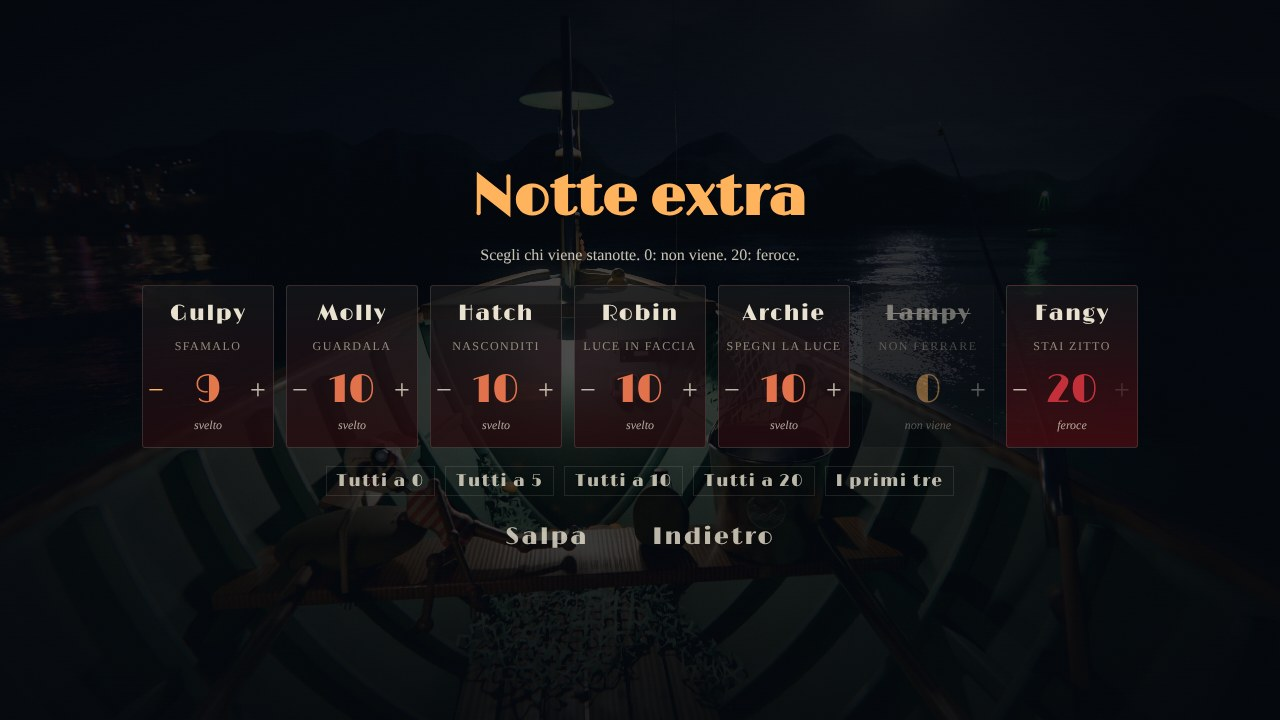
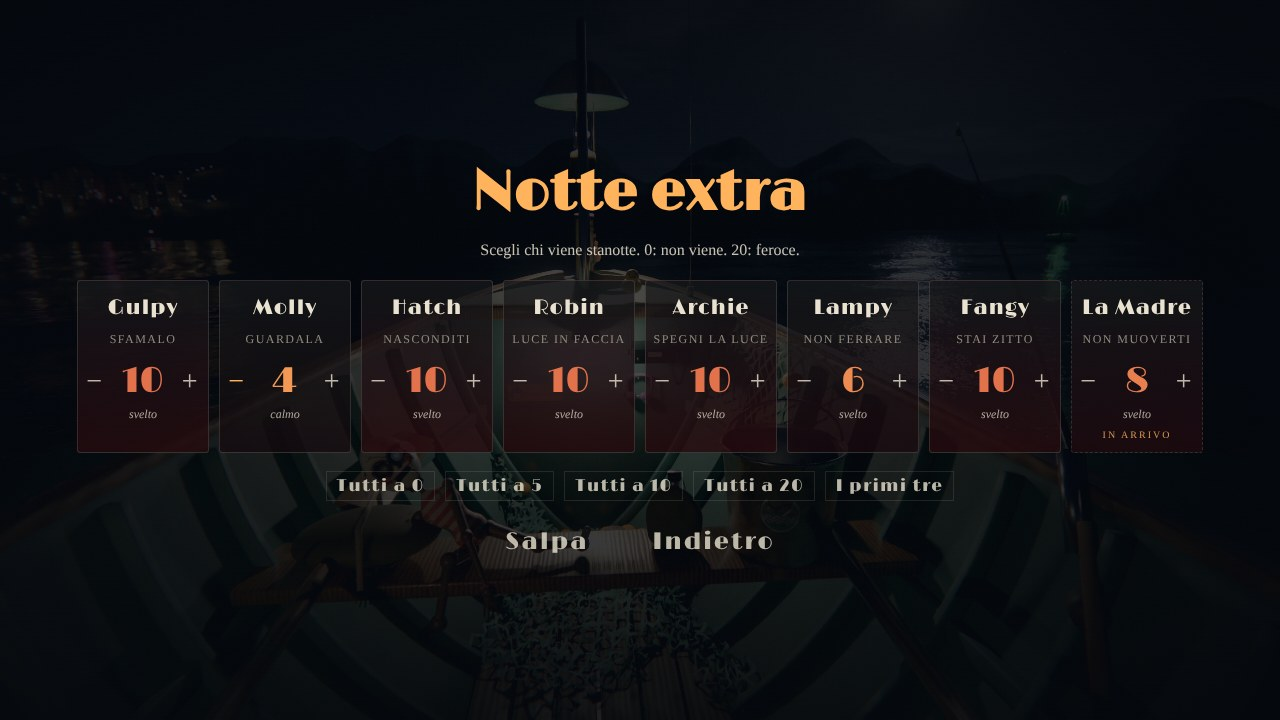
Notte 7: la Madre come ottavo livello (in arrivo: l'aggancio alla simulazione verrà col branch della notte 6) e il finale speciale segnaposto, con tutti almeno a 10
Claude-Session: https://claude.ai/code/session_01UF76DEXQ43yJ9tnajzHrWA

diff --git a/src/game/config.ts b/src/game/config.ts
@@ -388,10 +388,14 @@ export const EXTRA_MAX = 20;
 /** i sette mostri, nell'ordine in cui arrivano nelle notti (è anche l'ordine della schermata dei livelli) */
 export const MONSTERS: MonsterId[] = ['gulpy', 'molly', 'hatch', 'robin', 'archie', 'lampy', 'fangy'];
 
-export type ExtraLevels = Record<MonsterId, number>;
+/** chi si sceglie nella notte extra: i sette mostri e, ottava, la Madre (deciso dall'utente l'11 ottobre) */
+export type ExtraId = MonsterId | 'mother';
+export const EXTRA_IDS: ExtraId[] = [...MONSTERS, 'mother'];
+
+export type ExtraLevels = Record<ExtraId, number>;
 
 export function extraLevels(level: number): ExtraLevels {
-  return { gulpy: level, molly: level, hatch: level, robin: level, archie: level, lampy: level, fangy: level };
+  return { gulpy: level, molly: level, hatch: level, robin: level, archie: level, lampy: level, fangy: level, mother: level };
 }
 
 /** Le preimpostazioni della schermata (da approvare). */
@@ -401,7 +405,7 @@ export const EXTRA_PRESETS: { id: string; levels: ExtraLevels }[] = [
   { id: 'all10', levels: extraLevels(10) },
   { id: 'all20', levels: extraLevels(20) },
   // i tre della prima notte, ma feroci
-  { id: 'first3', levels: { gulpy: 15, molly: 15, hatch: 15, robin: 0, archie: 0, lampy: 0, fangy: 0 } },
+  { id: 'first3', levels: { gulpy: 15, molly: 15, hatch: 15, robin: 0, archie: 0, lampy: 0, fangy: 0, mother: 0 } },
 ];
 
 /** un livello valido: intero da 0 a EXTRA_MAX */
@@ -477,6 +481,37 @@ function monsterAt(who: MonsterId, level: number): Num {
   return level <= 5 ? mix(a.calm, a.debut, (level - 1) / 4) : mix(a.debut, a.fierce, ((level - 5) / 15) ** 1.5);
 }
 
+/**
+ * La Madre nella notte extra (confermato dall'utente l'11 ottobre): il suo livello dice quante volte passa sotto la
+ * barca e quanto dura ogni passata. La meccanica è quella della notte 6 (si avvicina con l'ombra enorme sul sonar, i
+ * mostri si zittiscono e tornano giù, mentre passa sotto serve immobilità totale): la fa la sessione principale nel
+ * suo branch. Qui ci sono solo i numeri, e la simulazione non li usa ancora: l'aggancio è in extraNight(), quando
+ * NightConfig avrà la sua config della Madre. I numeri sono una proposta da approvare: al 10 tre passate come nella
+ * notte 6, al 20 cinque e più lunghe.
+ */
+export interface ExtraMother {
+  /** quante volte passa sotto la barca in una notte */
+  passes: number;
+  /** quanto dura ogni passata (s): tanto deve durare l'immobilità */
+  pass: number;
+}
+
+export function extraMother(level: number): ExtraMother | null {
+  const l = clampLevel(level);
+  if (l === 0) return null;
+  return { passes: 1 + Math.round((l / EXTRA_MAX) * 4), pass: Math.round((5 + (l / EXTRA_MAX) * 5) * 10) / 10 };
+}
+
+/**
+ * Il finale speciale della notte extra si vede solo vincendola con tutti, Madre compresa, almeno a 10 (confermato
+ * dall'utente l'11 ottobre); con impostazioni più facili all'alba c'è l'alba normale.
+ */
+export const EXTRA_ENDING_MIN = 10;
+
+export function extraEndingEarned(levels: ExtraLevels): boolean {
+  return EXTRA_IDS.every((who) => clampLevel(levels[who] ?? 0) >= EXTRA_ENDING_MIN);
+}
+
 /** Gulpy, Molly e Hatch ci sono in ogni notte (il gioco li disegna sempre): al livello 0 il
  *  primo arrivo è ben oltre le sei, cioè non arrivano mai (come nei test, quiet()). */
 const NEVER = 1e9;
@@ -518,6 +553,7 @@ export function extraNight(levels: ExtraLevels): NightConfig {
     archie: on('archie') ? at<ArchieConfig>('archie') : undefined,
     lampy: on('lampy') ? at<LampyConfig>('lampy') : undefined,
     fangy: on('fangy') ? at<FangyConfig>('fangy') : undefined,
+    // la Madre: extraMother(levels.mother) va qui quando la simulazione avrà la sua config (branch della notte 6)
     battery: { drain: [0, 1 / 700, 1 / 320], sonar: 1 / 1100, low: 0.15, lullaby: 64 },
     hideTime: 0.7,
     unhideTime: 0.6,

diff --git a/src/app/screens.ts b/src/app/screens.ts
@@ -1,6 +1,6 @@
 /** Schermate in DOM sopra la scena: avvertenza, titolo, intro, pausa, opzioni, diario, alba, game over. */
 import { FISH, FISH_BY_ID, type FishFamily, type FishSpecies } from '../game/catalog.ts';
-import { EXTRA_MAX, EXTRA_PRESETS, LORE, MONSTERS, clampLevel, type ExtraLevels } from '../game/config.ts';
+import { EXTRA_IDS, EXTRA_MAX, EXTRA_PRESETS, LORE, clampLevel, type ExtraLevels } from '../game/config.ts';
 import { LORE_TEXT, STRINGS, type Lang } from '../i18n.ts';
 import type { CatalogEntry, Options } from './save.ts';
 
@@ -168,7 +168,7 @@ export class Screens {
       for (const p of paint) p();
       o.onChange({ ...lv });
     };
-    for (const who of MONSTERS) {
+    for (const who of EXTRA_IDS) {
       const num = h('b', { class: 'lv' });
       const what = h('div', { class: 'lv-word' });
       const minus = button('−', () => set(who, lv[who] - 1));
@@ -180,7 +180,7 @@ export class Screens {
       const card = h(
         'div',
         { class: 'extra-card', 'data-who': who },
-        h('div', { class: 'who' }, who[0]!.toUpperCase() + who.slice(1)),
+        h('div', { class: 'who' }, who === 'mother' ? S.extraMother : who[0]!.toUpperCase() + who.slice(1)),
         h('div', { class: 'rule' }, S.extraRules[who]),
         h('div', { class: 'ctl' }, minus, num, plus),
         what,
@@ -190,6 +190,11 @@ export class Screens {
         e.preventDefault();
         set(who, lv[who] + (e.deltaY < 0 ? 1 : -1));
       });
+      // la Madre: il livello si sceglie già, ma nella notte non c'è ancora (la sua meccanica arriva con la notte 6)
+      if (who === 'mother') {
+        card.classList.add('soon');
+        card.append(h('div', { class: 'soon-tag' }, S.extraSoon));
+      }
       paint.push(() => {
         num.textContent = String(lv[who]);
         what.textContent = word(lv[who]);
@@ -222,6 +227,15 @@ export class Screens {
         h('div', { class: 'menu' }, button(S.extraStart, () => o.onStart({ ...lv }), 'start'), button(S.back, o.onBack, 'back')),
       ),
     );
+  }
+
+  /**
+   * Il finale speciale della notte extra (vinta con tutti, Madre compresa, almeno a 10): per ora un SEGNAPOSTO, il
+   * finale vero è da fare (deciso dall'utente l'11 ottobre che ci sarà, diverso da quello della notte 6).
+   */
+  extraEnding(onDone: () => void): void {
+    const S = this.S;
+    this.show(h('div', { class: 'screen dawn extra-ending fade-in' }, h('h2', {}, S.extraEndingTitle), h('p', {}, S.extraEndingText), h('div', { class: 'menu' }, button(S.resume, onDone, 'start'))));
   }
 
   journal(found: string[], onBack: () => void): void {

diff --git a/src/styles.css b/src/styles.css
@@ -117,16 +117,18 @@ html, body {
 .extra-screen { background: radial-gradient(ellipse at center, rgba(5,8,13,.7), rgba(5,8,13,.96)); padding: 4vh 16px; justify-content: center; }
 .extra-screen h2 { color: var(--amber); }
 .extra-screen > p { margin: 0 0 18px; font-size: 16px; }
-.extra-grid { display: grid; grid-template-columns: repeat(7, minmax(0, 132px)); gap: 12px; max-width: 100%; }
+.extra-grid { display: grid; grid-template-columns: repeat(8, minmax(0, 132px)); gap: 10px; max-width: 100%; }
 .extra-card { --fury: 0; display: flex; flex-direction: column; align-items: center; gap: 4px; padding: 14px 6px 12px; border: 1px solid rgba(233,226,208,.14);
   background: linear-gradient(180deg, rgba(233,226,208,.05), rgba(122,14,20,calc(var(--fury) * .45))), rgba(5,8,13,.72); border-radius: 3px; transition: background .2s, opacity .2s, border-color .2s; }
-.extra-card .who { font-family: 'Limelight', serif; font-size: 22px; letter-spacing: .06em; }
+.extra-card .who { font-family: 'Limelight', serif; font-size: 21px; letter-spacing: .04em; white-space: nowrap; }
 .extra-card .rule { font-size: 12px; letter-spacing: .12em; text-transform: uppercase; color: var(--dim); min-height: 2.6em; display: flex; align-items: center; }
 .extra-card .ctl { display: flex; align-items: center; gap: 2px; }
-.extra-card .lv { font-family: 'Limelight', serif; font-weight: normal; font-size: 40px; min-width: 1.6em; color: color-mix(in srgb, var(--blood) calc(var(--fury) * 100%), var(--amber)); }
+.extra-card .lv { font-family: 'Limelight', serif; font-weight: normal; font-size: 36px; min-width: 1.6em; color: color-mix(in srgb, var(--blood) calc(var(--fury) * 100%), var(--amber)); }
 .extra-card .lv-word { font-size: 12px; font-style: italic; color: var(--ink); opacity: .7; min-height: 1.4em; }
 .extra-screen .extra-card button.step { font-family: Georgia, 'Times New Roman', serif; font-size: 28px; padding: 0 8px; line-height: 1; }
 .extra-screen .extra-card button.step:disabled { opacity: .15; cursor: default; }
+.extra-card.soon { border-style: dashed; }
+.extra-card .soon-tag { font-size: 10px; letter-spacing: .2em; text-transform: uppercase; color: var(--amber); opacity: .8; margin-top: 2px; }
 .extra-card.off { opacity: .45; border-color: rgba(233,226,208,.06); }
 .extra-card.off .who { text-decoration: line-through; text-decoration-thickness: 1px; }
 .extra-presets { display: flex; flex-wrap: wrap; justify-content: center; gap: 4px 10px; margin-top: 18px; }

diff --git a/src/i18n.ts b/src/i18n.ts
@@ -81,7 +81,13 @@ const IT = {
   extraLocked: 'Finisci tutte le notti per sbloccarla.',
   extraPresets: { all0: 'Tutti a 0', all5: 'Tutti a 5', all10: 'Tutti a 10', all20: 'Tutti a 20', first3: 'I primi tre' },
   /** la regola di ogni mostro in due parole, sotto il nome */
-  extraRules: { gulpy: 'sfamalo', molly: 'guardala', hatch: 'nasconditi', robin: 'luce in faccia', archie: 'spegni la luce', lampy: 'non ferrare', fangy: 'stai zitto' },
+  extraRules: { gulpy: 'sfamalo', molly: 'guardala', hatch: 'nasconditi', robin: 'luce in faccia', archie: 'spegni la luce', lampy: 'non ferrare', fangy: 'stai zitto', mother: 'non muoverti' },
+  extraMother: 'La Madre',
+  /** sulla scheda della Madre finché la sua meccanica non è nel gioco */
+  extraSoon: 'in arrivo',
+  // il finale speciale della notte extra: SEGNAPOSTO, il testo vero è da scrivere
+  extraEndingTitle: 'Il finale della notte extra',
+  extraEndingText: '(Segnaposto: qui andrà il finale speciale, che si vede solo vincendo con tutti almeno a 10.)',
   extraLevelNames: ['non viene', 'calmo', 'come la sua notte', 'svelto', 'feroce'],
   retry: 'Riprova',
   nextNight: 'Notte successiva',
@@ -283,7 +289,11 @@ const EN: typeof IT = {
   extraStart: 'Cast off',
   extraLocked: 'Finish every night to unlock it.',
   extraPresets: { all0: 'All at 0', all5: 'All at 5', all10: 'All at 10', all20: 'All at 20', first3: 'The first three' },
-  extraRules: { gulpy: 'feed him', molly: 'watch her', hatch: 'hide', robin: 'light in his face', archie: 'lamp off', lampy: "don't strike", fangy: 'stay quiet' },
+  extraRules: { gulpy: 'feed him', molly: 'watch her', hatch: 'hide', robin: 'light in his face', archie: 'lamp off', lampy: "don't strike", fangy: 'stay quiet', mother: "don't move" },
+  extraMother: 'The Mother',
+  extraSoon: 'coming soon',
+  extraEndingTitle: 'The end of the extra night',
+  extraEndingText: '(Placeholder: the special ending goes here; you only see it by winning with everyone at 10 or more.)',
   extraLevelNames: ['stays away', 'calm', 'like their first night', 'quick', 'ferocious'],
   retry: 'Try again',
   nextNight: 'Next night',

diff --git a/scripts/balance.ts b/scripts/balance.ts
@@ -1,10 +1,10 @@
 /**
  * Bilanciamento: fa giocare la notte a bot di diversa abilità e riassume i risultati.
  * Uso: node scripts/balance.ts [notte] [partite]
- * Notte extra: node scripts/balance.ts 7 [partite] [livelli], coi livelli dei sette mostri nell'ordine di MONSTERS
- * (gulpy,molly,hatch,robin,archie,lampy,fangy), per esempio 5,5,5,5,5,5,5; un numero solo vale per tutti.
+ * Notte extra: node scripts/balance.ts 7 [partite] [livelli], coi livelli nell'ordine di EXTRA_IDS
+ * (gulpy,molly,hatch,robin,archie,lampy,fangy e, ottava, la Madre, che la simulazione non usa ancora), per esempio 5,5,5,5,5,5,5; un numero solo vale per tutti.
  */
-import { EXTRA_NIGHT, MONSTERS, NIGHTS, extraLevels, extraNight, type ExtraLevels } from '../src/game/config.ts';
+import { EXTRA_IDS, EXTRA_NIGHT, NIGHTS, extraLevels, extraNight, type ExtraLevels } from '../src/game/config.ts';
 import { NightSim } from '../src/game/sim.ts';
 import { SKILLS, playNight } from '../src/game/bot.ts';
 
@@ -13,12 +13,12 @@ const games = Number(process.argv[3] ?? 300);
 let levels: ExtraLevels | null = null;
 if (night === EXTRA_NIGHT) {
   const v = (process.argv[4] ?? '5').split(',').map(Number);
-  levels = v.length === 1 ? extraLevels(v[0]!) : (Object.fromEntries(MONSTERS.map((m, i) => [m, v[i] ?? 0])) as ExtraLevels);
+  levels = v.length === 1 ? extraLevels(v[0]!) : (Object.fromEntries(EXTRA_IDS.map((m, i) => [m, v[i] ?? 0])) as ExtraLevels);
 }
 const cfg = levels ? extraNight(levels) : NIGHTS[night];
 if (!cfg) throw new Error(`notte ${night} non configurata`);
 
-const extra = levels ? ` · livelli ${MONSTERS.map((m) => `${m} ${levels![m]}`).join(', ')}` : '';
+const extra = levels ? ` · livelli ${EXTRA_IDS.map((m) => `${m} ${levels![m]}`).join(', ')}` : '';
 console.log(`Notte ${night} · quota ${cfg.quota}${extra} · ${games} partite per abilità\n`);
 for (const skill of Object.values(SKILLS)) {
   let wins = 0;

diff --git a/tests/sim.test.ts b/tests/sim.test.ts
@@ -1,5 +1,5 @@
 import { describe, expect, it } from 'vitest';
-import { EXTRA_NIGHT, HOUR_SECONDS, MONSTERS, NIGHTS, YAW, extraLevels, extraNight, type MonsterId, type NightConfig } from '../src/game/config.ts';
+import { EXTRA_NIGHT, HOUR_SECONDS, MONSTERS, NIGHTS, YAW, extraEndingEarned, extraLevels, extraMother, extraNight, type MonsterId, type NightConfig } from '../src/game/config.ts';
 import type { GameEvent } from '../src/game/events.ts';
 import { NightSim } from '../src/game/sim.ts';
 import { Bot, SKILLS, playNight } from '../src/game/bot.ts';
@@ -753,6 +753,21 @@ describe('Notte 7, la notte extra', () => {
       if (sim.outcome.kind === 'won') wins++;
     }
     expect(wins).toBeGreaterThanOrEqual(18);
+  });
+
+  it('la Madre: a 0 non passa, al 10 tre passate come nella notte 6, al 20 di più e più lunghe', () => {
+    expect(extraMother(0)).toBeNull();
+    expect(extraMother(10)!.passes).toBe(3);
+    expect(extraMother(20)!.passes).toBeGreaterThan(3);
+    expect(extraMother(20)!.pass).toBeGreaterThan(extraMother(1)!.pass);
+  });
+
+  it('il finale speciale solo con tutti, Madre compresa, almeno a 10', () => {
+    expect(extraEndingEarned(extraLevels(10))).toBe(true);
+    expect(extraEndingEarned(extraLevels(20))).toBe(true);
+    expect(extraEndingEarned({ ...extraLevels(20), mother: 9 })).toBe(false);
+    expect(extraEndingEarned({ ...extraLevels(20), lampy: 0 })).toBe(false);
+    expect(extraEndingEarned(extraLevels(5))).toBe(false);
   });
 
   it('più alti i livelli, meno notti vinte', () => {

diff --git a/src/app/app.ts b/src/app/app.ts
@@ -3,7 +3,7 @@
  * Tiene il salvataggio, le opzioni e lo sfondo animato dei menu (la scena dalla barca).
  */
 import type { AudioEngine, Voice } from '../engine/audio.ts';
-import { EXTRA_NIGHT, NIGHTS, extraNight, type MonsterId, type NightConfig } from '../game/config.ts';
+import { EXTRA_NIGHT, NIGHTS, extraEndingEarned, extraNight, type MonsterId, type NightConfig } from '../game/config.ts';
 import { STRINGS, type Lang } from '../i18n.ts';
 import { Night, type NightAssets, type NightEnd } from './night.ts';
 import { writeSave, type Options, type SaveData } from './save.ts';
@@ -307,6 +307,13 @@ export class App {
       this.audio.play('static_burst', { gain: 0.85 });
       this.timer = 1.2;
       this.afterStatic = show;
+    } else if (extra && r.kind === 'won' && extraEndingEarned(this.save.extra)) {
+      // la notte extra vinta con tutti, Madre compresa, almeno a 10: prima il finale speciale (per ora un segnaposto,
+      // Screens.extraEnding), poi i risultati. Con impostazioni più facili, l'alba normale
+      this.mode = 'end';
+      this.night?.destroy();
+      this.night = null;
+      this.screens.extraEnding(show);
     } else show();
   }
 

diff --git a/src/app/save.ts b/src/app/save.ts
@@ -1,5 +1,5 @@
 /** Salvataggio locale: progressi, diario, catalogo e opzioni. */
-import { MONSTERS, clampLevel, extraLevels, type ExtraLevels } from '../game/config.ts';
+import { EXTRA_IDS, clampLevel, extraLevels, type ExtraLevels } from '../game/config.ts';
 import type { Lang } from '../i18n.ts';
 
 export interface Options {
@@ -54,7 +54,7 @@ export function loadSave(): SaveData {
       version: 1,
       lang: d.lang === 'it' || d.lang === 'en' ? d.lang : null,
       night: typeof d.night === 'number' ? d.night : 1,
-      extra: Object.fromEntries(MONSTERS.map((m) => [m, clampLevel(Number((d.extra as Partial<ExtraLevels> | undefined)?.[m] ?? f.extra[m]))])) as ExtraLevels,
+      extra: Object.fromEntries(EXTRA_IDS.map((m) => [m, clampLevel(Number((d.extra as Partial<ExtraLevels> | undefined)?.[m] ?? f.extra[m]))])) as ExtraLevels,
       lore: Array.isArray(d.lore) ? d.lore.filter((x) => typeof x === 'string') : [],
       catalog: d.catalog && typeof d.catalog === 'object' ? d.catalog : {},
       options: { ...f.options, ...(d.options ?? {}) },

diff --git a/docs/NOTTI_E_MOSTRI.md b/docs/NOTTI_E_MOSTRI.md
@@ -316,7 +316,8 @@ accorciati e resi più criptici come chiesto, sono **approvati** (`src/i18n.ts`)
 > Madre, la progetta un'altra sessione: qui non c'è niente di lei, solo il posto (la notte extra è la 7 e si
 > sblocca finendo l'ultima notte giocabile, che sarà la sesta).
 
-Come la *custom night* di FNAF: per ognuno dei sette mostri si sceglie un **livello da 0 a 20**. A 0 non viene, a
+Come la *custom night* di FNAF: per ognuno dei sette mostri, e per **la Madre** (ottava, confermato dall'utente
+l'11 ottobre), si sceglie un **livello da 0 a 20**. A 0 non viene, a
 20 è feroce. Le regole che il giocatore ha imparato non cambiano mai (i dieci della conta di Hatch, i tre colpi di
 Lampy, il terzo rumore di Fangy): cambiano solo **quando arriva, quanto spesso torna e quanta pazienza ha**.
 
@@ -331,17 +332,28 @@ Lampy, il terzo rumore di Fangy): cambiano solo **quando arriva, quanto spesso t
     più a lungo, Robin ruba più spesso, Archie prende fiato in meno tempo e resta più a lungo al buio, Lampy prende la
     lenza prima, Fangy arriva più svelto e ascolta di più).
   - Fra 5 e 20 la curva sale piano all'inizio e più in fretta alla fine (se no a 10 era già quasi impossibile).
+- **La Madre** (**confermato l'11 ottobre** che c'è, come ottavo livello; la sua meccanica è quella approvata per la
+  notte 6 e la fa la sessione principale: si avvicina con l'ombra enorme sul sonar, i mostri si zittiscono e tornano
+  giù, mentre passa sotto la barca serve immobilità totale). Il suo livello dice **quante volte passa e quanto dura ogni
+  passata** (`extraMother()`, numeri da approvare): a 1 una passata di 5 s, al **10 tre passate come nella notte 6**
+  (7,5 s), al 20 cinque passate di 10 s. Nella schermata la sua scheda c'è già, tratteggiata e con la scritta **«in
+  arrivo»**: il livello si sceglie e si salva, ma la simulazione non lo usa finché la sua meccanica non arriva
+  (l'aggancio è segnato in `extraNight()`). Le simulazioni qui sotto quindi sono senza di lei.
+- **Il finale speciale** (**confermato l'11 ottobre**): si vede solo **vincendo con tutti, Madre compresa, almeno a
+  10** (`extraEndingEarned()`); con impostazioni più facili all'alba c'è l'alba normale. Il finale vero è da fare:
+  per ora dopo l'alba compare una **schermata segnaposto** (`Screens.extraEnding`, il titolo «Il finale della notte
+  extra» e una riga che dice che è un segnaposto), poi i risultati. È diverso da quello della notte 6.
 - **Il resto della notte**: quota **10**; i pesci abboccano in fretta come nella quinta notte; la batteria è quella
   dalla notte 2 in poi (con la ninna nanna della Madre a batteria morta); le ore fanno salire l'attività come nella
   quinta. La regia tiene le **esclusioni della quinta notte**: chi chiede il contrario dell'altro non viene insieme a
   lui (Robin con Molly, Hatch o Archie; Hatch con Gulpy, Lampy o Fangy; Lampy con Archie; Fangy con Archie o Robin).
   Gulpy, Molly e Hatch, che il gioco disegna in tutte le notti, a 0 restano semplicemente a casa.
 - **La schermata** (`docs/concept/notte7_livelli.jpg`): dal titolo, «Notte extra» (compare solo quando è sbloccata).
-  Sette schede in fila, una per mostro: il nome, la sua regola in due parole, il livello grande con − e + (anche la
+  Otto schede in fila, una per mostro più la Madre: il nome, la sua regola in due parole, il livello grande con − e + (anche la
   rotella sulla scheda), e sotto una parola: *non viene* (0), *calmo* (1-4), *come la sua notte* (5), *svelto* (6-14),
   *feroce* (15-20). Più è alto, più la scheda si tinge di rosso e il numero passa dall'ambra al rosso sangue; a 0 la
   scheda si spegne e il nome è barrato. Sotto, le preimpostazioni **Tutti a 0, Tutti a 5, Tutti a 10, Tutti a 20,
-  I primi tre** (Gulpy, Molly e Hatch a 15, gli altri a 0). Poi **Salpa** e Indietro. I livelli scelti restano nel
+  I primi tre** (Gulpy, Molly e Hatch a 15, gli altri e la Madre a 0; le altre valgono anche per la Madre). Poi **Salpa** e Indietro. I livelli scelti restano nel
   salvataggio per la volta dopo (all'inizio tutti a 5). Per ora ci sono i nomi: i **ritratti** dei mostri (per esempio le
   foto sbiadite dell'edicola) sono da fare.
 - **La notte**: l'intro dice «Notte 7» con la quota; vincerla non sblocca niente e non cambia «Continua»; alla fine
@@ -350,11 +362,13 @@ Lampy, il terzo rumore di Fangy): cambiano solo **quando arriva, quanto spesso t
 - **Testi** (italiano e inglese, in `src/i18n.ts`, segnati da approvare): il pulsante «Notte extra» / «Extra night»;
   «Scegli chi viene stanotte. 0: non viene. 20: feroce.» / «Choose who comes tonight. 0: stays away. 20: ferocious.»;
   le regole sotto i nomi «sfamalo, guardala, nasconditi, luce in faccia, spegni la luce, non ferrare, stai zitto» /
-  «feed him, watch her, hide, light in his face, lamp off, don't strike, stay quiet»; «Salpa» / «Cast off».
+  «feed him, watch her, hide, light in his face, lamp off, don't strike, stay quiet»; per la Madre «La Madre, non
+  muoverti, in arrivo» / «The Mother, don't move, coming soon»; «Salpa» / «Cast off». Il finale segnaposto: «Il finale
+  della notte extra» / «The end of the extra night» (con una riga che dice che è un segnaposto).
   La radio, corta: «Notte extra. Dieci pesci. / Stanotte vengono quelli che hai chiamato tu. / Buona pesca.» /
   «Extra night. Ten fish. / Tonight the ones you called are coming. / Good fishing.»
 - **Giocatori simulati** (`npm run sim -- 7 300 <livelli>`; un numero vale per tutti, se no i sette livelli in
-  ordine Gulpy, Molly, Hatch, Robin, Archie, Lampy, Fangy). Vittorie di esperto / medio / maldestro:
+  ordine Gulpy, Molly, Hatch, Robin, Archie, Lampy, Fangy, e la Madre per ottava, che però non conta ancora). Vittorie di esperto / medio / maldestro:
 
   | Livelli | Esperto | Medio | Maldestro | Chi uccide |
   |---|---|---|---|---|
